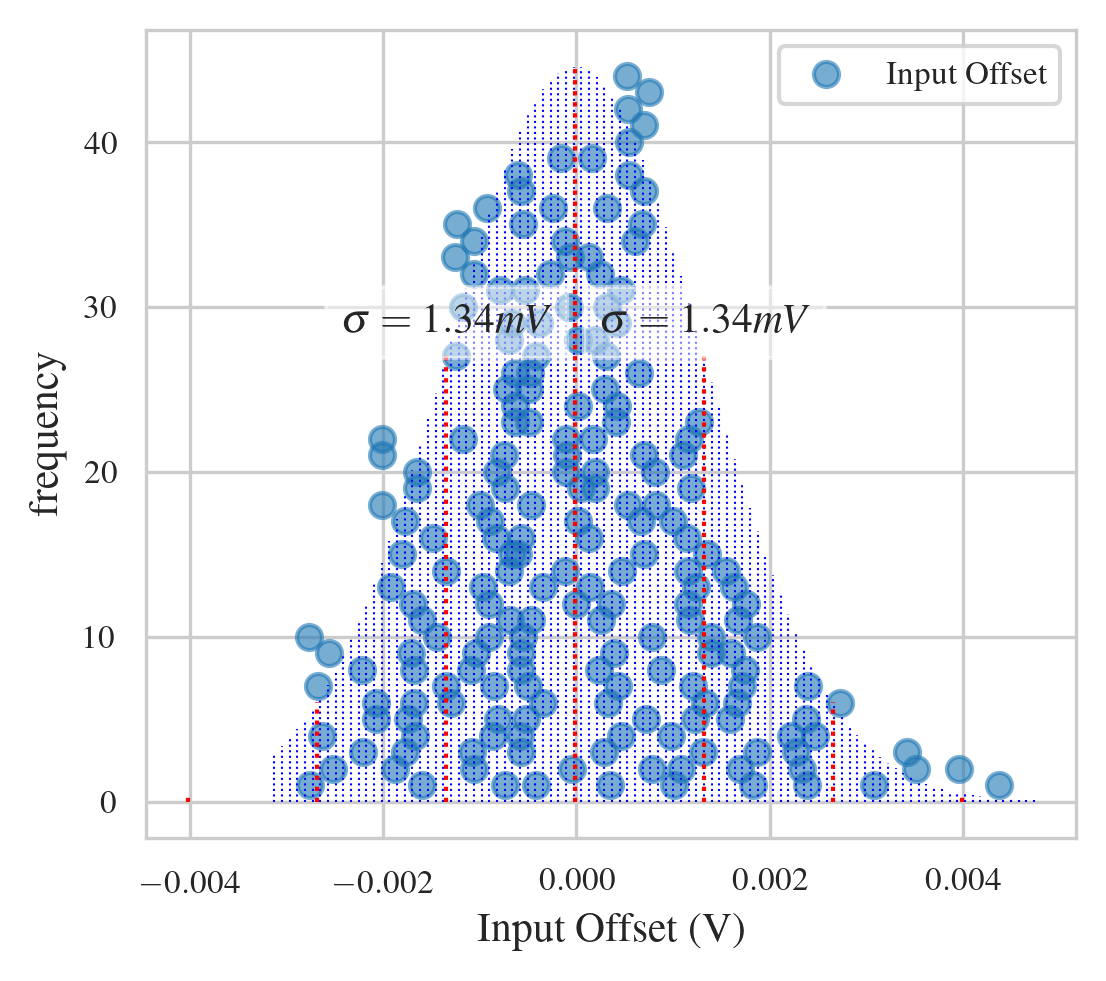
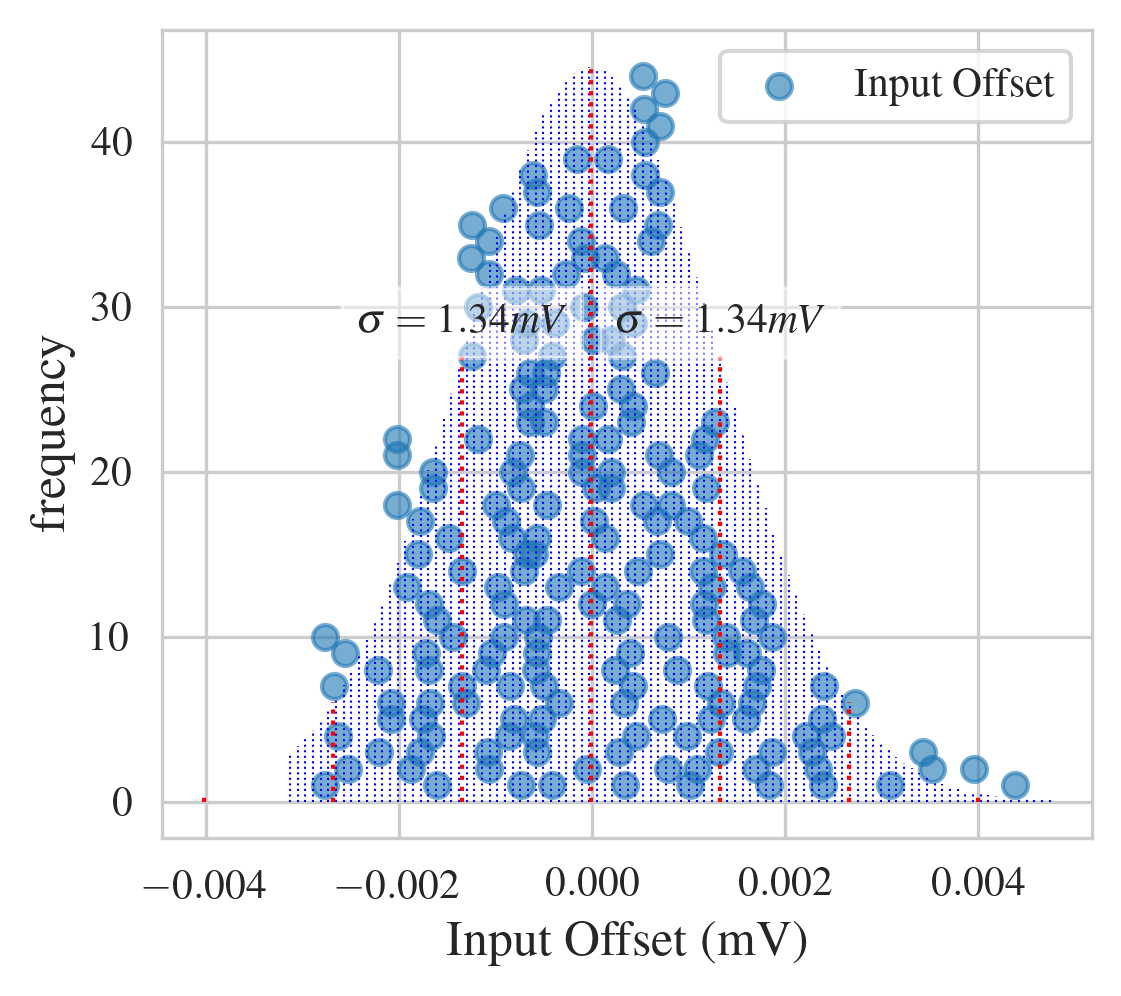
modified:   IEEE_graph_plot.py 	modified:   ck2q_supply_v_load_comp.png 	modified:   monte_carlo_offset.png 	modified:   pvt_calib_noise.png 	modified:   pvt_calib_speed.png 	modified:   pvt_ck2q.png 	modified:   pvt_noise.png

Changed region(s): [[0.0307, 0.0306, 0.9837, 0.9786]]

diff --git a/IEEE_graph_plot.py b/IEEE_graph_plot.py
@@ -1,27 +1,22 @@
-
 ## Script to create a plot with IEEE style and save it as a high-resolution PNG file
 
 import numpy as np
 import seaborn as sns
-
 import matplotlib.pyplot as plt
-
 import matplotlib as mpl
 import csv
 from scipy.stats import norm
-print(mpl.rcParams['text.latex.preamble'])
-print(mpl.rcParams['pgf.texsystem'])
 
 # Define a function to set the style for IEEE conference
 def set_ieee_style():
     sns.set_style("whitegrid")
     plt.rcParams.update({
-        'font.size': 10,
-        'axes.labelsize': 10,
-        'axes.titlesize': 10,
-        'xtick.labelsize': 8,
-        'ytick.labelsize': 8,
-        'legend.fontsize': 8,
+        'font.size': 12,  # Increased by 2
+        'axes.labelsize': 12,  # Increased by 2
+        'axes.titlesize': 12,  # Increased by 2
+        'xtick.labelsize': 10,  # Increased by 2
+        'ytick.labelsize': 10,  # Increased by 2
+        'legend.fontsize': 10,  # Increased by 2
         'figure.figsize': (4, 3.5),
         'figure.dpi': 300,
         'savefig.dpi': 300,
@@ -57,10 +52,9 @@ ax.plot(T, sf_ck2q_ps, label='sf corner')
 ax.plot(T, tt_ck2q_ps, label='tt corner')
 ax.plot(T, fs_ck2q_ps, label='fs corner')
 ax.plot(T, ff_ck2q_ps, label='ff corner')
-# Add labels and title
+# Add labels
 ax.set_xlabel('Temperature (°C)')
 ax.set_ylabel('Ck2Q (ps) ')
-ax.set_title('PVT Impact on Ck2Q')
 ax.legend()
 
 # Save the plot as a high-resolution PNG file
@@ -97,10 +91,9 @@ ax.plot(T, sf_noise_uV, label='sf corner')
 ax.plot(T, tt_noise_uV, label='tt corner')
 ax.plot(T, fs_noise_uV, label='fs corner')
 ax.plot(T, ff_noise_uV, label='ff corner')
-# Add labels and title
+# Add labels
 ax.set_xlabel('Temperature (°C)')
 ax.set_ylabel('Noise (uVrms) ')
-ax.set_title('PVT Impact on noise')
 ax.legend()
 
 # Save the plot as a high-resolution PNG file
@@ -108,7 +101,6 @@ plt.savefig('pvt_noise.png', bbox_inches='tight')
 
 # Show the plot
 plt.show()
-
 
 ## PVT Speed Calibration plot
 
@@ -136,10 +128,9 @@ ax.scatter(corner, ck2q_calib_ps_max, label='105°C')
 for i in range(len(corner)):
     ax.plot([corner[i], corner[i]], [ck2q_calib_ps_min[i], ck2q_calib_ps_max[i]], color='gray', linestyle='--')
 
-# Add labels and title
+# Add labels
 ax.set_xlabel('Corners')
 ax.set_ylabel('Ck2q (ps)')
-ax.set_title('Calibrated PVT Impact on speed')
 ax.legend()
 
 # Save the plot as a high-resolution PNG file
@@ -168,10 +159,9 @@ ax.scatter(corner, noise_calib_uV_max, label='105°C')
 for i in range(len(corner)):
     ax.plot([corner[i], corner[i]], [noise_calib_uV_min[i], noise_calib_uV_max[i]], color='gray', linestyle='--')
 
-# Add labels and title
+# Add labels
 ax.set_xlabel('Corners')
 ax.set_ylabel('Noise (uVrms)')
-ax.set_title('Calibrated PVT Impact on noise')
 ax.legend()
 
 # Save the plot as a high-resolution PNG file
@@ -196,10 +186,9 @@ fig, ax = plt.subplots()
 ax.scatter(corner, ck2q_load_cap_ps, label='Load cap')
 ax.scatter(corner, ck2q_supply_v, label='Supply voltage')
 
-# Add labels and title
+# Add labels
 ax.set_xlabel('Corners')
 ax.set_ylabel('Ck2q (ps)')
-ax.set_title('Supply voltage vs Load cap comparison')
 ax.legend()
 
 # Save the plot as a high-resolution PNG file
@@ -207,9 +196,6 @@ plt.savefig('ck2q_supply_v_load_comp.png', bbox_inches='tight')
 
 # Show the plot
 plt.show()
-
-
-
 
 ## Monte carlo simulation plot for offset
 
@@ -235,10 +221,9 @@ fig, ax = plt.subplots()
 
 ax.scatter(x_values, y_values, label='Input Offset', alpha=0.6)
 
-# Add labels and title
+# Add labels
 ax.set_xlabel('Input Offset (mV)')
 ax.set_ylabel('frequency')
-#ax.set_title('Monte Carlo Simulation Results')
 ax.legend()
 
 # Fit a normal distribution to the data
@@ -251,7 +236,6 @@ max_y = np.max(y_values)
 avg_y = np.mean(y_values)
 
 # Compute the scaling factor
-#scaling_factor = max_y / avg_y
 scaling_factor = 6.7
 
 # Plot the PDF of the fitted normal distribution
@@ -268,8 +252,7 @@ ax.vlines(mu, 0, norm.pdf(mu, mu, sigma) / scaling_factor, colors='r', linestyle
 for i in range(1, 4):  # Adding lines for 1, 2, and 3 sigma intervals
     ax.vlines(mu + i * sigma, 0, norm.pdf(mu + i * sigma, mu, sigma) / scaling_factor, colors='r', linestyles='dotted', linewidth=1)
     ax.vlines(mu - i * sigma, 0, norm.pdf(mu - i * sigma, mu, sigma) / scaling_factor, colors='r', linestyles='dotted', linewidth=1)
-# Add sigma value to the plot near the plot
-# Add sigma value to the plot near the plot
+
 # Add sigma value to the plot near the plot
 ax.text(mu + sigma, norm.pdf(mu + sigma, mu, sigma) / scaling_factor + 0.02 * max_y, 
     f'$\sigma = {sigma*1e3:.2f}mV$', fontsize=10, verticalalignment='bottom', 
